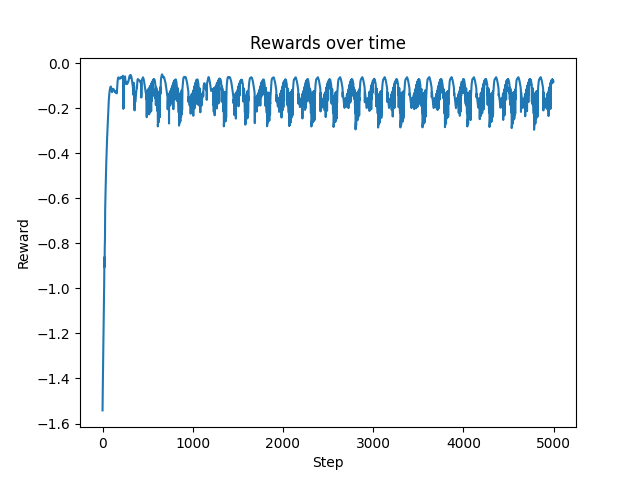
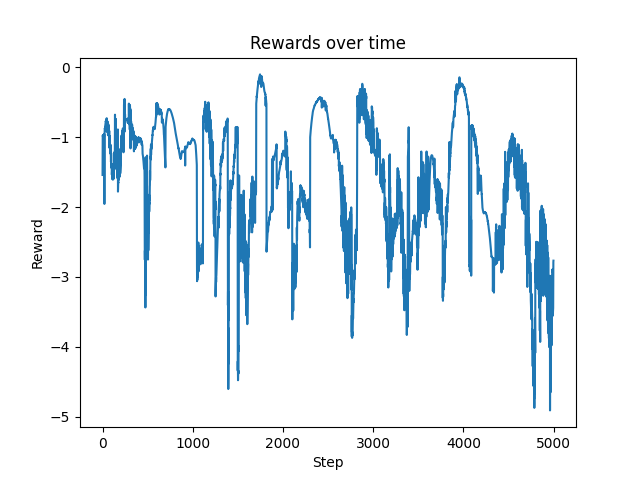
added joint velocity to observation data

diff --git a/franka_env.py b/franka_env.py
@@ -17,8 +17,8 @@ class FrankaReachEnv(gym.Env):
         self.target_pos = np.array([0.5, 0.0, 0.6]) # target position in cartesian space
         self.target_ori_euler = p.getQuaternionFromEuler([0, np.pi, 0]) # target orientation in cartesian space
         self.action_space = spaces.Box(low=-1, high=1, shape=(7,), dtype=np.float32)
-        obs_low = np.array([-np.pi] * 7 + [-2, -2, 0])
-        obs_high = np.array([np.pi] * 7 + [2, 2, 2])
+        obs_low = np.array([-np.pi] * 7 + [-10.0] * 7 + [-2, -2, 0])
+        obs_high = np.array([np.pi] * 7 + [10.0] * 7 + [2, 2, 2])
         self.observation_space = spaces.Box(low=obs_low, high=obs_high, dtype=np.float32)
 
     def reset(self, seed=None, options=None):
@@ -70,7 +70,7 @@ class FrankaReachEnv(gym.Env):
             'ee_ori_euler': np.array(ee_ori_euler),
             'coriolis_gravity': np.array(coriolis_gravity[:7]),
             # 'flat_obs': np.array(joint_positions[:7] + list(ee_pos) + list(ee_ori_euler), dtype=np.float32)
-            'flat_obs': np.array(joint_positions[:7] + list(ee_pos), dtype=np.float32)
+            'flat_obs': np.array(joint_positions[:7] + joint_velocities[:7] + list(ee_pos), dtype=np.float32)
         }
 
         return obs
@@ -113,10 +113,10 @@ class FrankaReachEnv(gym.Env):
 
         # Controller
         # Kp = np.array([600.0, 600.0, 600.0, 600.0, 250.0, 150.0, 50.0])
-        Kp = np.array([60.0, 60.0, 60.0, 60.0, 25.0, 15.0, 5.0])
+        #Kp = np.array([60.0, 60.0, 60.0, 60.0, 25.0, 15.0, 5.0])
         Kd = np.array([5.0, 5.0, 5.0, 5.0, 3.0, 2.5, 1.5])
         Krl = np.array([20.0, 20.0, 20.0, 20.0, 20.0, 20.0, 1.0])
-        tau = np.array(coriolis_gravity)[:7] - Kp * error_q - Kd * error_q_dot + Krl * action
+        tau = np.array(coriolis_gravity)[:7] - Kd * error_q_dot + Krl * action
         # print(action)
         joint_indices = np.array([0, 1, 2, 3, 4, 5, 6])
         p.setJointMotorControlArray(

diff --git a/training.py b/training.py
@@ -3,7 +3,7 @@ from franka_env import FrankaReachEnv
 from matplotlib import pyplot as plt
 
 env = FrankaReachEnv(render=False)
-model = DDPG("MlpPolicy", env, verbose=1, tensorboard_log="./sac_franka_tensorboard/", device="cpu")
+model = SAC("MlpPolicy", env, verbose=1, tensorboard_log="./sac_franka_tensorboard/", device="cpu")
 model.learn(total_timesteps=100000)
 
 
@@ -24,4 +24,4 @@ plt.plot(rewards)
 plt.title("Rewards over time")
 plt.xlabel("Step")
 plt.ylabel("Reward")
-plt.savefig("rewards_plot_DDPG.png")
+plt.savefig("rewards_plot_SAC.png")
